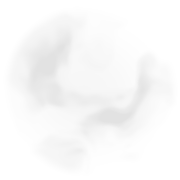
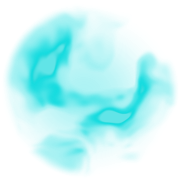
Colours: primary #0de1e5, secondary #afafaf (Color studio)

diff --git a/app/globals.css b/app/globals.css
@@ -79,9 +79,9 @@
   --on-accent: oklch(0.2 0.02 var(--secondary-h));
 
   /* Primární barva (růžová): odstín, sytost, posun světlosti. Color studio je přepisuje. */
-  --primary-h: 356.6;
-  --primary-c: 0.2389;
-  --primary-l-adj: -0.1574;
+  --primary-h: 197.1;
+  --primary-c: 0.1394;
+  --primary-l-adj: 0.0456;
   --primary: oklch(calc(0.78 + var(--primary-l-adj)) var(--primary-c) var(--primary-h));
   --primary-deep: oklch(calc(0.6 + var(--primary-l-adj)) calc(var(--primary-c) * 1.15) var(--primary-h));
   --primary-glow: oklch(calc(0.78 + var(--primary-l-adj)) var(--primary-c) var(--primary-h) / 0.5);
@@ -94,9 +94,9 @@
 
   /* Tmavé téma (výchozí) */
   /* Pozadí: světlost / sytost / odstín jedné barvy (Color studio), ostatní neutrály jsou její odvozeniny */
-  --bgd-l: 0.165;
-  --bgd-c: 0.0017;
-  --bgd-h: 0;
+  --bgd-l: 0.1654;
+  --bgd-c: 0.0153;
+  --bgd-h: 220.2;
   --bgl-l: 0.9194;
   --bgl-c: 0.0395;
   --bgl-h: 280.9;

diff --git a/components/ColorStudio.tsx b/components/ColorStudio.tsx
@@ -20,7 +20,7 @@ const KEY = 'brand-v7';
 const VARS_KEY = 'brand-vars-v2'; // všechny spočítané CSS proměnné; layout.tsx je obnoví před prvním vykreslením
 // p = primární (růžová), s = sekundární (šedá), bd / bl = pozadí tmavého / světlého tématu
 type Brand = { p: string; s: string; bd: string; bl: string };
-const DEF: Brand = { p: '#eb228a', s: '#afafaf', bd: '#0f0e0e', bl: '#dfe2ff' };
+const DEF: Brand = { p: '#0de1e5', s: '#afafaf', bd: '#071013', bl: '#dfe2ff' };
 const SECONDARY_HUE = 198.7; // šedá nemá odstín, neutrály si drží tenhle
 
 const round = (n: number, d = 3) => +n.toFixed(d);
